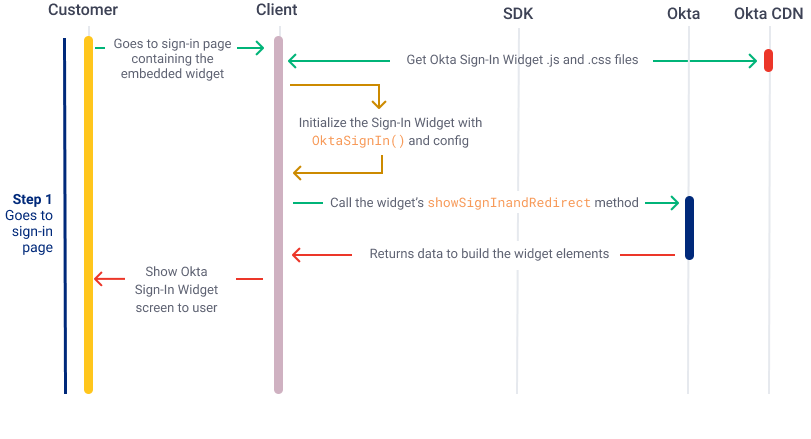
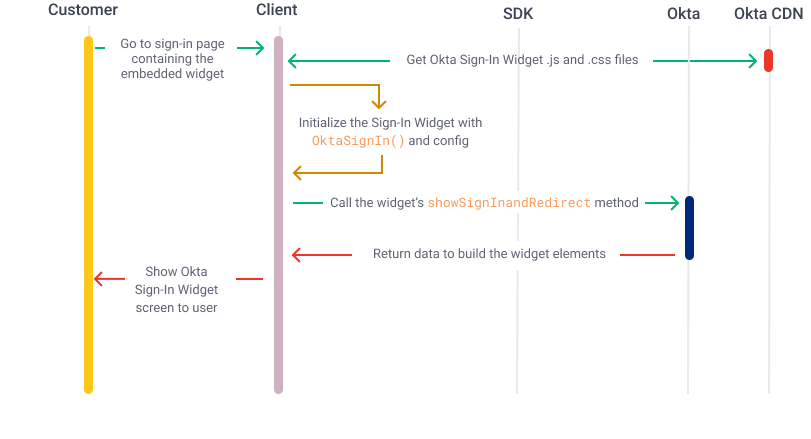
fix formatting and sync diagram with steps for Java widget use cases

Changed region(s): [[0.0, 0.0888, 0.0925, 0.8884], [0.4316, 0.5626, 0.7707, 0.5923], [0.1233, 0.0888, 0.2774, 0.1185]]

diff --git a/packages/@okta/vuepress-site/docs/guides/oie-embedded-widget-use-cases/oie-embedded-widget-use-case-sign-in-soc-idp/java/integrationsteps.md b/packages/@okta/vuepress-site/docs/guides/oie-embedded-widget-use-cases/oie-embedded-widget-use-case-sign-in-soc-idp/java/integrationsteps.md
@@ -1,36 +1,34 @@
 ## Integration steps
 
-###  Step 1: User signs in with Facebook link
+###  Step 1: User signs in with Facebook
 
 After you have completed the steps in [Configuration Updates](#configuration-updates), and have configured your app to [load the Sign-In Widget](/docs/guides/oie-embedded-widget-use-cases/java/oie-embedded-widget-use-case-load/), then the **Sign in with Facebook** option is available on the widget. No coding is required to have the **Sign in with Facebook** option.
 
-When the user selects **Sign in with Facebook** from the widget, they are directed to the Facebook sign-in screen.
-
-### Step 2: User signs in to Facebook
-
-The user enters their Facebook credentials (email and password) on the Facebook sign-in screen.
-
 <div class="common-image-format">
 
-![Displays the Facebook sign-in form](/img/oie-embedded-sdk/oie-embedded-sdk-use-case-social-sign-in-fb-login.png)
+![Displays the Sign-In Widget with the 'Sign in with Facebook' button](/img/oie-embedded-sdk/oie-embedded-widget-use-case-social-sign-in-screen-java.png)
 
 </div>
 
+When the user selects **Sign in with Facebook** from the widget, they are directed to the Facebook sign-in screen.
+
+The user enters their Facebook credentials (email and password) on the Facebook sign-in screen, which is hosted by the Facebook platform.
+
 > **Note:** You can use the Facebook test user account that you've created in [Step 3: Set up and copy test user information](/docs/guides/oie-embedded-common-org-setup/java/main/#step-3-set-up-and-copy-test-user-information).
 
-### Step 3: Facebook redirects to your Okta org
+### Step 2: Facebook redirects to your Okta org
 
-After the user signs in to Facebook successfully, Facebook routes the user to the location that you've specified in **Valid OAuth Redirect URIs** from the Facebook developer site. See [Step 1: Create a Facebook app in Facebook](/docs/guides/oie-embedded-common-org-setup/java/main/#step-1-create-a-facebook-app-in-facebook).
+After the user signs in to Facebook successfully, Facebook routes the user to the location that you've specified in **Valid OAuth Redirect URIs** from the Facebook developer site.
 
-The **Valid OAuth Redirect URIs** for your Okta org is in the format: `https://{yourOktaDomain}/oauth2/v1/authorize/callback`.
+> **Note:** The **Valid OAuth Redirect URIs** for your Okta org is in the format: `https://{yourOktaDomain}/oauth2/v1/authorize/callback`. See [Step 1: Create a Facebook app in Facebook](/docs/guides/oie-embedded-common-org-setup/java/main/#step-1-create-a-facebook-app-in-facebook) for details on configuring the **Valid OAuth Redirect URIs** value.
 
-### Step 4: Okta org redirects to your app through sign-in redirect URIs
+### Step 3: Okta org redirects to your app through sign-in redirect URIs
 
 After your Okta org receives a successful Facebook sign-in request, your org redirects the request to your app's **Sign-in redirect URIs** setting.
 
-> **Note:** For the Java embedded authentication sample apps, the **Sign-in redirect URIs** is set to `http://localhost:8080`.
+> **Note:** For the Java SDK embedded authentication sample apps, the **Sign-in redirect URIs** is set to `http://localhost:8080`.
 
-### Step 5: Handle the callback from Okta
+### Step 4: Handle the callback from Okta
 
 Okta returns the Interaction code to the **Sign-in redirect URI** that is specified in the [create new application](/docs/guides/oie-embedded-common-org-setup/java/main/#create-a-new-application) step.
 
@@ -60,11 +58,11 @@ mav.addObject(ISSUER_URI, issuer);
 session.setAttribute(CODE_VERIFIER, idxClientContext.getCodeVerifier());
 ```
 
-### Step 6: Request tokens from Okta
+### Step 5: Request tokens from Okta
 
-The Spring security framework doesn't understand Okta’s Interaction code flow. Therefore, your app needs to intercept Spring’s OAuth authentication code flow, exchange the interaction code obtained from Okta for an access token, populate the user profile attributes, and construct [OAuth2AuthenticationToken.java](https://github.com/spring-projects/spring-security/blob/main/oauth2/oauth2-client/src/main/java/org/springframework/security/oauth2/client/authentication/OAuth2AuthenticationToken.java) before handing over the authentication flow back to Spring.
+The Spring security framework doesn't understand Okta’s Interaction code flow. Therefore, your app needs to intercept Spring’s OAuth authentication code flow, exchange the Interaction code obtained from Okta for an access token, populate the user profile attributes, and construct [`OAuth2AuthenticationToken.java`](https://github.com/spring-projects/spring-security/blob/main/oauth2/oauth2-client/src/main/java/org/springframework/security/oauth2/client/authentication/OAuth2AuthenticationToken.java) before handing over the authentication flow back to Spring.
 
-In the following example, the helper function [exchangeCodeForToken()](https://github.com/okta/okta-idx-java/blob/master/samples/embedded-sign-in-widget/src/main/java/com/okta/spring/example/HelperUtil.java#L80) is used to obtain the access and refresh tokens.
+In the following example, the helper function [`exchangeCodeForToken()`](https://github.com/okta/okta-idx-java/blob/master/samples/embedded-sign-in-widget/src/main/java/com/okta/spring/example/HelperUtil.java#L80) is used to obtain the access and refresh tokens.
 
 ```java
 final JsonNode jsonNode = helperUtil.exchangeCodeForToken(interactionCode, codeVerifier);
@@ -72,9 +70,9 @@ final OAuth2AccessToken oAuth2AccessToken = helperUtil.buildOAuth2AccessToken(js
 final OAuth2RefreshToken oAuth2RefreshToken = helperUtil.buildOAuth2RefreshToken(jsonNode);
 ```
 
-### Step 7: Retrieve user profile
+### Step 6: Retrieve user profile
 
-Retrieve the user profile attributes with the access token object and populate Spring framework’s [OAuth2AuthenticationToken](https://github.com/spring-projects/spring-security/blob/main/oauth2/oauth2-client/src/main/java/org/springframework/security/oauth2/client/authentication/OAuth2AuthenticationToken.java)  object reference for Spring to continue with the rest of the authentication flow. See helper class method [getUserAttributes()](https://github.com/okta/okta-idx-java/blob/master/samples/embedded-sign-in-widget/src/main/java/com/okta/spring/example/HelperUtil.java#L67) for details.
+Retrieve the user profile attributes with the access token object and populate Spring framework’s [`OAuth2AuthenticationToken`](https://github.com/spring-projects/spring-security/blob/main/oauth2/oauth2-client/src/main/java/org/springframework/security/oauth2/client/authentication/OAuth2AuthenticationToken.java)  object reference for Spring to continue with the rest of the authentication flow. See helper class method [`getUserAttributes()`](https://github.com/okta/okta-idx-java/blob/master/samples/embedded-sign-in-widget/src/main/java/com/okta/spring/example/HelperUtil.java#L67) for details.
 
 ```java
 final Map<String, Object> userAttributes =

diff --git a/packages/@okta/vuepress-site/docs/guides/oie-embedded-widget-use-cases/oie-embedded-widget-use-case-basic-sign-in/java/integrationsteps.md b/packages/@okta/vuepress-site/docs/guides/oie-embedded-widget-use-cases/oie-embedded-widget-use-case-basic-sign-in/java/integrationsteps.md
@@ -12,9 +12,9 @@ The user signs in with the Sign-In Widget that was set up in the [Load the widge
 
 ### Step 2: Handle the callback from Okta
 
-Okta returns the Interaction code to the **Sign-in redirect URI** specified in the [create new application](/docs/guides/oie-embedded-common-org-setup/java/main/#create-a-new-application) step.
+Okta returns the Interaction code to the **Sign-in redirect URI** specified in the [Create a new application](/docs/guides/oie-embedded-common-org-setup/java/main/#create-a-new-application) section.
 
-> **Note:** The redirect URI value used to start up the app (such as `OKTA_IDX_REDIRECTURI` environment variable), must be defined as one of the **Sign-in redirect URI** settings for the app integration created in the Admin console. See [create new application](/docs/guides/oie-embedded-common-org-setup/java/main/#create-a-new-application).
+> **Note:** The redirect URI value used to start up the app (such as `OKTA_IDX_REDIRECTURI` environment variable), must be defined as one of the **Sign-in redirect URI** settings for the app integration created in the Admin console. See [Create a new application](/docs/guides/oie-embedded-common-org-setup/java/main/#create-a-new-application).
 
 ```java
 String issuer = oktaOAuth2Properties.getIssuer();
@@ -44,9 +44,9 @@ session.setAttribute(CODE_VERIFIER, idxClientContext.getCodeVerifier());
 
 ### Step 3: Request tokens from Okta
 
-The Spring security framework doesn't understand Okta’s Interaction code flow. Therefore, your app needs to intercept Spring’s OAuth authentication code flow, exchange the interaction code obtained from Okta for an access token, populate the user profile attributes, and construct [OAuth2AuthenticationToken.java](https://github.com/spring-projects/spring-security/blob/main/oauth2/oauth2-client/src/main/java/org/springframework/security/oauth2/client/authentication/OAuth2AuthenticationToken.java) before handing over the authentication flow back to Spring.
+The Spring security framework doesn't understand Okta’s Interaction code flow. Therefore, your app needs to intercept Spring’s OAuth authentication code flow, exchange the Interaction code obtained from Okta for an access token, populate the user profile attributes, and construct [`OAuth2AuthenticationToken.java`](https://github.com/spring-projects/spring-security/blob/main/oauth2/oauth2-client/src/main/java/org/springframework/security/oauth2/client/authentication/OAuth2AuthenticationToken.java) before handing over the authentication flow back to Spring.
 
-In the following example, the helper function [exchangeCodeForToken()](https://github.com/okta/okta-idx-java/blob/master/samples/embedded-sign-in-widget/src/main/java/com/okta/spring/example/HelperUtil.java#L80) is used to obtain the access and refresh tokens.
+In the following example, the helper function [`exchangeCodeForToken()`](https://github.com/okta/okta-idx-java/blob/master/samples/embedded-sign-in-widget/src/main/java/com/okta/spring/example/HelperUtil.java#L80) is used to obtain the access and refresh tokens.
 
 ```java
 final JsonNode jsonNode = helperUtil.exchangeCodeForToken(interactionCode, codeVerifier);
@@ -56,7 +56,7 @@ final OAuth2RefreshToken oAuth2RefreshToken = helperUtil.buildOAuth2RefreshToken
 
 ### Step 4: Retrieve user profile
 
-Retrieve the user profile attributes with the access token object and populate the [OAuth2AuthenticationToken](https://github.com/spring-projects/spring-security/blob/main/oauth2/oauth2-client/src/main/java/org/springframework/security/oauth2/client/authentication/OAuth2AuthenticationToken.java) object reference for Spring to continue with the rest of the authentication flow. See helper class method [getUserAttributes()](https://github.com/okta/okta-idx-java/blob/master/samples/embedded-sign-in-widget/src/main/java/com/okta/spring/example/HelperUtil.java#L67) for details.
+Retrieve the user profile attributes with the access token object and populate the [`OAuth2AuthenticationToken`](https://github.com/spring-projects/spring-security/blob/main/oauth2/oauth2-client/src/main/java/org/springframework/security/oauth2/client/authentication/OAuth2AuthenticationToken.java) object reference for Spring to continue with the rest of the authentication flow. See helper class method [`getUserAttributes()`](https://github.com/okta/okta-idx-java/blob/master/samples/embedded-sign-in-widget/src/main/java/com/okta/spring/example/HelperUtil.java#L67) for details.
 
 ```java
 final Map<String, Object> userAttributes =

diff --git a/packages/@okta/vuepress-site/docs/guides/oie-embedded-widget-use-cases/oie-embedded-widget-use-case-sign-in-soc-idp/index.md b/packages/@okta/vuepress-site/docs/guides/oie-embedded-widget-use-cases/oie-embedded-widget-use-case-sign-in-soc-idp/index.md
@@ -11,17 +11,17 @@ title: Sign in with Facebook
 
 ## Factor setup
 
-This use case skips the factor requirements since it uses the Facebook identity provider.
+This use case skips the factor requirements since it uses the Facebook Identity Provider.
 
 ## Configuration Updates
 
-### Step 1:  Complete steps in the widget setup
+### Step 1:  Download and configure the widget app
 
-If not already done, complete the steps that are described in [download and set up the SDK, widget, and sample app](/docs/guides/oie-embedded-common-download-setup-app/aspnet/main/). The steps guide you to the appropriate repository and location of the embedded Sign-In Widget sample app, identify the packages to install, and describe additional changes to the Okta org that are required for the widget app.
+Ensure that you have completed the steps described in the [Download and set up the SDK, Sign-In Widget, and sample app](/docs/guides/oie-embedded-common-download-setup-app/aspnet/main/) topic. These steps guide you to the appropriate repository and location of the embedded Sign-In Widget sample app, identify the packages to install, and describe additional changes to the Okta org that are required for the widget app.
 
-### Step 2: Set up your Okta org (for social identity providers)
+### Step 2: Set up your Okta org for social Identity Providers
 
-If not already done, complete the steps described in the [Set up your Okta org (for social identity providers)](/docs/guides/oie-embedded-common-org-setup/aspnet/main/#set-up-your-okta-org-for-social-identity-providers) section.
+Ensure that your org is configured for the Facebook Identity Provider by completing the steps in the [Set up your Okta org for social Identity Providers](/docs/guides/oie-embedded-common-org-setup/aspnet/main/#set-up-your-okta-org-for-social-identity-providers) section.
 
 <StackSelector snippet="summaryofsteps" noSelector />
 

diff --git a/packages/@okta/vuepress-site/docs/guides/oie-embedded-widget-use-cases/oie-embedded-widget-use-case-load/java/integrationsteps.md b/packages/@okta/vuepress-site/docs/guides/oie-embedded-widget-use-cases/oie-embedded-widget-use-case-load/java/integrationsteps.md
@@ -2,7 +2,7 @@
 
 ### Step 1: Source the Sign-In Widget to your sign-in page
 
-Add the Sign-In Widget source to your JavaScript sign-in page by referencing the Okta CDN.
+Add the Sign-In Widget source to your JavaScript sign-in page by referencing the Okta content delivery network (CDN).
 
 ```javascript
 <script src="https://global.oktacdn.com/okta-signin-widget/5.8.2/js/okta-sign-in.min.js" type="text/javascript"></script>
@@ -45,12 +45,11 @@ Initialize the widget in the sign-in page, similar to the following snippet:
 </script>
 ```
 
-The Okta Sign-In Widget renders in the sign-in (or `login`) page when your app's sign-in page controller is triggered.
+The Okta Sign-In Widget renders in the sign-in page when your app's sign-in page controller is triggered.
 
 ### Step 3: Run your app
 
-The final step is to run your app. If the widget and your Okta org are correctly
-configured, then the Okta Sign-In Widget displays in your sign-in page:
+The final step is to run your app. If the widget and your Okta org are properly configured, then the Okta Sign-In Widget displays in your sign-in page:
 
 <div class="common-image-format">
 

diff --git a/packages/@okta/vuepress-site/docs/guides/oie-embedded-widget-use-cases/oie-embedded-widget-use-case-load/nodejs/integrationsteps.md b/packages/@okta/vuepress-site/docs/guides/oie-embedded-widget-use-cases/oie-embedded-widget-use-case-load/nodejs/integrationsteps.md
@@ -70,7 +70,7 @@ The Okta Sign-In Widget renders in the sign-in page when the `router.get('/login
 
 ### Step 3: Run your app
 
-The final step is to run your app. If the widget and your Okta org are property configured, then the Okta Sign-In Widget displays in your sign-in page:
+The final step is to run your app. If the widget and your Okta org are properly configured, then the Okta Sign-In Widget displays in your sign-in page:
 
 <div class="common-image-format">
 

diff --git a/packages/@okta/vuepress-site/docs/guides/oie-embedded-widget-use-cases/oie-embedded-widget-use-case-basic-sign-in/java/summaryofsteps.md b/packages/@okta/vuepress-site/docs/guides/oie-embedded-widget-use-cases/oie-embedded-widget-use-case-basic-sign-in/java/summaryofsteps.md
@@ -6,6 +6,6 @@ The following is the sequence of steps to sign in to the app using the embedded 
 
 <div class="common-image-format">
 
-![Displays the basic sign-in sequence steps for the Java SDK Sign-In Widget flow](/img/oie-embedded-sdk/oie-embedded-widget-use-case-sign-in-java.png)
+![Displays basic sign-in sequence steps for the Java SDK Sign-In Widget flow](/img/oie-embedded-sdk/oie-embedded-widget-use-case-sign-in-java.png)
 
 </div>

diff --git a/packages/@okta/vuepress-site/docs/guides/oie-embedded-widget-use-cases/oie-embedded-widget-use-case-load/java/summaryofsteps.md b/packages/@okta/vuepress-site/docs/guides/oie-embedded-widget-use-cases/oie-embedded-widget-use-case-load/java/summaryofsteps.md
@@ -4,6 +4,6 @@ The following is the sequence of steps to load the widget.
 
 <div class="common-image-format">
 
-![Displays the load-widget sequence steps for the Java SDK Sign-In Widget flow](/img/oie-embedded-sdk/oie-embedded-widget-use-case-load-java.png)
+![Displays the Sign-In Widget load flow for the Java SDK](/img/oie-embedded-sdk/oie-embedded-widget-use-case-load-java.png)
 
 </div>
